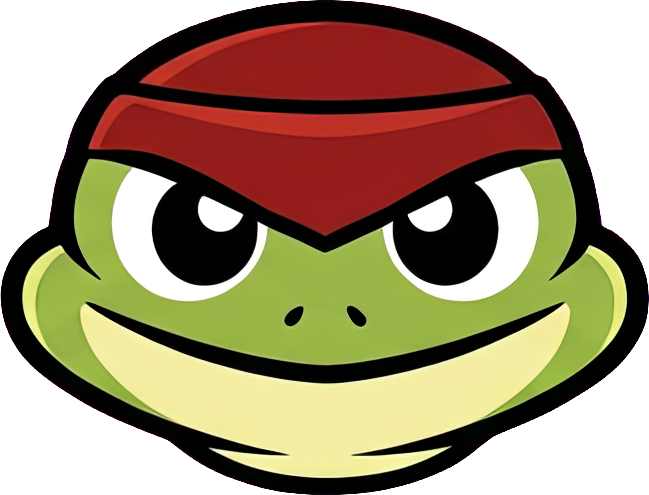
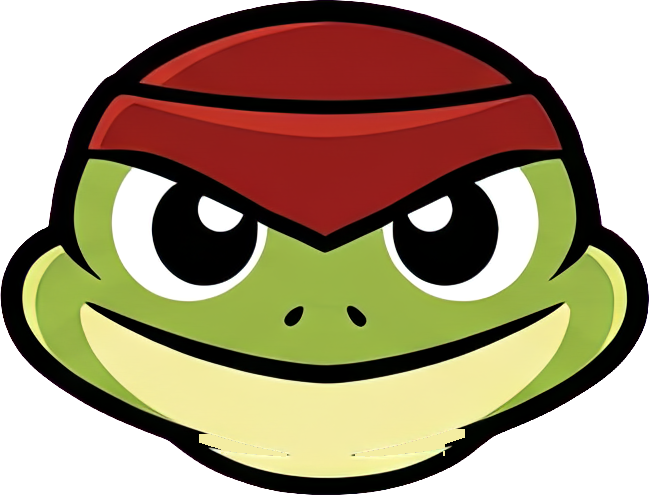
Base frog: the double chin removed at its source (Marek: 'the frog still has double chin'): the head drawing had an inner black arc splitting the cream jaw from a neck tab; art_fix_chin.py paints it cream and re-traces the head (the head drop back to 0); stamina: the last, refilling pill counts (it 

Changed region(s): [[0.5547, 0.8485, 0.7088, 0.9394], [0.3082, 0.8788, 0.4314, 0.9394]]

diff --git a/static/js/views/frog-game.js b/static/js/views/frog-game.js
@@ -232,7 +232,7 @@ const ART = {
     // the frog (1.1, route B): rig parts cut from the picked drawing, built by art_build_frog.py.
     // Live for everyone (Marek, 2026-11-19: ship each new piece as it lands); ?art=old shows the
     // drawn frog instead, for comparing. Poses without their art yet are still the drawn frog.
-    frog: /[?&]art=old\b/.test(location.search) ? null : '/img/game/frog/frog.a53b4dfce3.json',
+    frog: /[?&]art=old\b/.test(location.search) ? null : '/img/game/frog/frog.796ac54fb5.json',
     // the intro (1.2): the logo itself as the seated frog, then key frames held in turn (built by
     // art_build_intro.py), the logo's laptop flung off in code; ?art=old turns it off with the frog
     intro: /[?&]art=old\b/.test(location.search) ? null : '/img/game/frog/intro.c3c44280db.json'
@@ -1869,7 +1869,7 @@ export function mountFrogGame(stage, opts = {}) {
     // Marek 2026-11-20: the katanas 20% longer in the base pose (stretched along the blade from the grip)
     const KATANA_LEN = 1.2;
     // ... and the head sits this much lower on the body (rig units): the chin covers the cream throat band that read as a double chin
-    const HEAD_DROP = 34;
+    const HEAD_DROP = 0;
     // standing: the soles' line the breath and the crouch pivot on, and how far the breath reaches (rig units);
     // hopT (a little hop's time left) is declared here too: applyPose runs once before the loop's variables further down
     const FEET_Y = 1700, BREATH_SPAN = 1500;
@@ -2808,8 +2808,10 @@ export function mountFrogGame(stage, opts = {}) {
         el.stamina.classList.toggle('gold', gold && !hot && !cold);
         el.stamina.classList.toggle('fire', hot);
         el.stamina.classList.toggle('empty', !gold && !hot && !cold && stamina < 1);
-        // running low (Marek, 2026-11-20): two pills left turn yellow, the last one red
-        const pills = gold || hot || cold ? STAMINA_BARS : Math.floor(stamina + 1e-6);
+        // running low (Marek, 2026-11-20): two pills left turn yellow, the last one red. Counted as the pills you can see,
+        // the one refilling included (Marek, 2026-11-21: 'the single stamina bar is green?': full pills only left the
+        // last, refilling one green)
+        const pills = gold || hot || cold ? STAMINA_BARS : Math.ceil(stamina - 1e-6);
         el.stamina.classList.toggle('low2', pills === 2); el.stamina.classList.toggle('low1', pills === 1);
         el.stamina.classList.toggle('flash', emptyFlash > 0);
         el.stamina.classList.toggle('stunned', stunT > 0);

diff --git a/design/frog/tools/art_fix_chin.py b/design/frog/tools/art_fix_chin.py
@@ -1,0 +1,68 @@
+#!/usr/bin/env python3
+"""The base frog's double chin (Marek, 2026-11-20/21: 'the base frog looks fat with this double chin'; 'the frog still
+has double chin'). The rig's head part has, under the smile, the cream jaw split by a black arc with a small cream tab
+of neck below it: two stacked cream shapes. The logo has one cream jaw running into the chest's V. This paints that
+inner arc cream (only black pixels with cream close above AND below in the same column, so the smile and the outline
+stay), then re-traces the head to SVG with the same vtracer settings as art_build_frog.py.
+
+    python3 design/frog/tools/art_fix_chin.py        # then: python3 design/frog/tools/art_build_frog.py
+
+Reads parts/head.orig.png (made from head.png on the first run, never overwritten) and writes parts/head.png and
+parts/head.svg, in the art desk's candidates/1.1-rig/parts or design/frog/art/sources/candidates/1.1-rig/parts.
+"""
+import os, shutil, sys, tempfile
+import numpy as np
+from PIL import Image
+sys.path.insert(0, os.path.dirname(os.path.abspath(__file__)))
+from desk_path import desk                  # noqa: E402
+from art_build_frog import vector           # noqa: E402
+
+REACH = 16          # px (2x part px): how far above and below a black pixel cream must be for it to count as the inner arc
+
+
+def main():
+    P = desk('candidates/1.1-rig/parts')
+    orig = os.path.join(P, 'head.orig.png')
+    if not os.path.exists(orig): shutil.copyfile(os.path.join(P, 'head.png'), orig)
+    im = Image.open(orig).convert('RGBA'); A = np.asarray(im).astype(int).copy()
+    r, g, b, a = A[..., 0], A[..., 1], A[..., 2], A[..., 3]
+    H, W = a.shape
+    cream = (a > 200) & (r > 200) & (g > 200) & (b > 110) & (b < 200) & (r - b > 40)
+    dark = (a > 200) & (np.maximum(np.maximum(r, g), b) < 90)
+    low = np.zeros_like(dark); low[int(H * 0.6):] = True          # the jaw: the lower part of the head only
+    above = np.zeros_like(cream); below = np.zeros_like(cream)
+    for d in range(1, REACH + 1):
+        above[d:] |= cream[:-d]; below[:-d] |= cream[d:]
+    arc = dark & low & above & below
+    # its two ends run on past the neck tab, over the outline (no cream below there): the arc's own rows only, grown
+    # sideways, dark pixels with cream just above
+    ay = np.nonzero(arc.any(1))[0]
+    if len(ay):
+        side = arc.copy()
+        for d in range(1, 28): side[:, d:] |= arc[:, :-d]; side[:, :-d] |= arc[:, d:]
+        rows = np.zeros_like(arc); rows[max(0, ay.min() - 3):ay.max() + 4] = True
+        near = np.zeros_like(cream)
+        for d in range(1, 9): near[d:] |= cream[:-d]
+        arc |= side & rows & dark & near
+    # ... and its soft edge: the half-dark anti-aliased pixels around it (they read as faint wisps once traced)
+    band = arc.copy()
+    for d in range(1, 5): band[d:] |= arc[:-d]; band[:-d] |= arc[d:]
+    green = (g > r + 15) & (g > b + 30)
+    redish = (r > g + 50) & (r > b + 40)
+    arc |= band & (a > 200) & ~cream & ~green & ~redish
+    ys, xs = np.nonzero(cream & low)
+    fill = np.median(A[ys, xs, :3], axis=0).astype(int)
+    A[arc, :3] = fill
+    print(f'painted {int(arc.sum())} px of the inner chin arc cream {tuple(fill)}')
+    out = Image.fromarray(A.clip(0, 255).astype(np.uint8), 'RGBA')
+    out.save(os.path.join(P, 'head.png'))
+    with tempfile.TemporaryDirectory() as tmp:
+        svg = vector(out, tmp, 'head')
+    open(os.path.join(P, 'head.svg'), 'w').write(svg)
+    if '--preview' in sys.argv:
+        bg = Image.new('RGBA', out.size, (40, 60, 80, 255)); bg.alpha_composite(out)
+        bg.convert('RGB').save(sys.argv[sys.argv.index('--preview') + 1])
+
+
+if __name__ == '__main__':
+    main()
